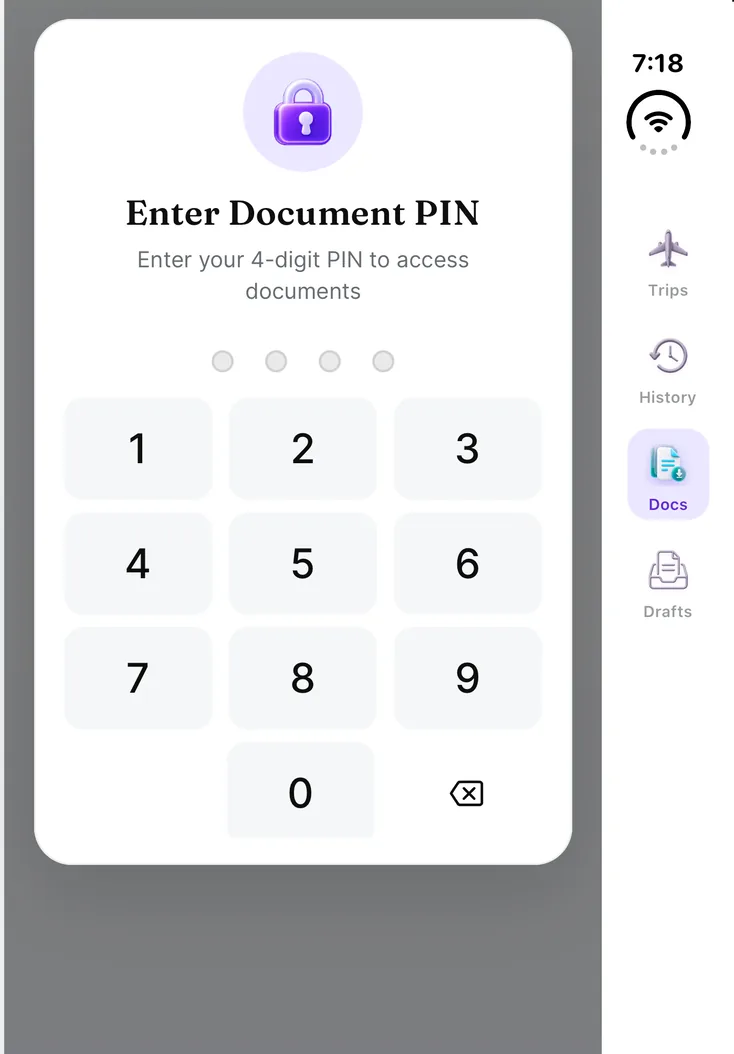
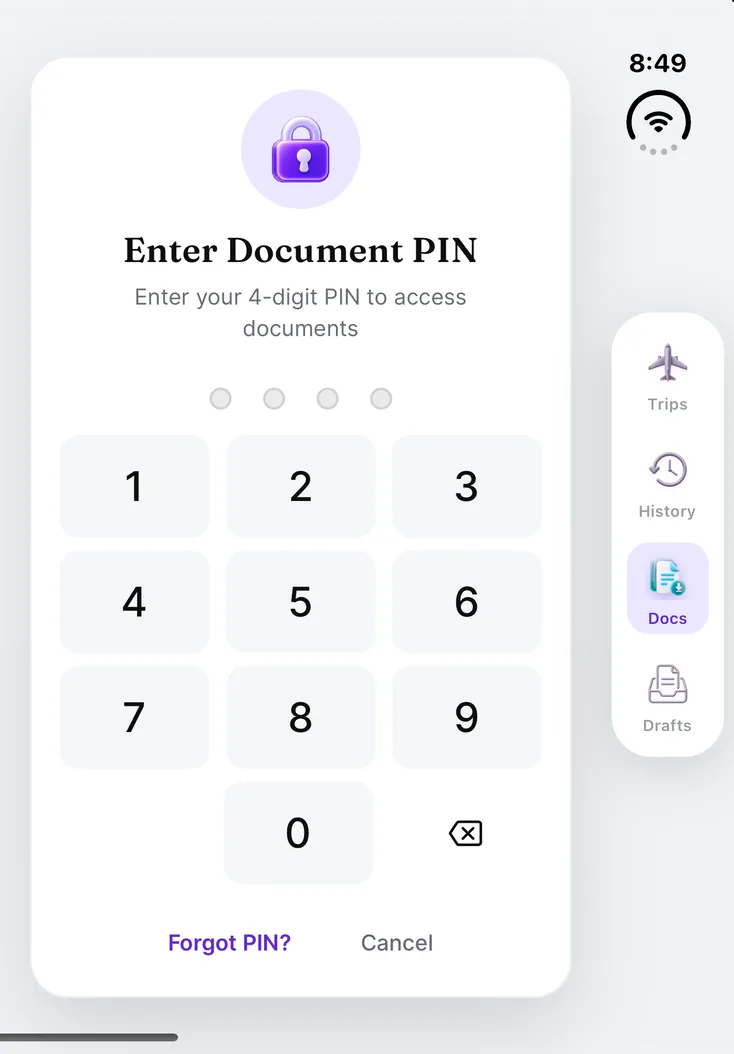
iPhone Duo section: frames from the current app build
Recaptured Trips (Melbourne selected on the map), Trip, Flight
(departures board) and Documents (PIN lock) on the iPhone Duo
simulator (iOS 27.1) running the latest dev build, inner display open
flat. The owner's name on the flight screen is replaced with a sample
traveller name. Captions and alt text describe the new screens.

diff --git a/components/home/duo.tsx b/components/home/duo.tsx
@@ -18,30 +18,30 @@ const SCREENS: Screen[] = [
   {
     id: "trips",
     label: "Trips",
-    closed: "Closed, your next flight and its countdown.",
-    open: "Open, the trip after it and every flight on it, beside the same screen.",
-    alt: "TripCache on iPhone Duo, open: the upcoming Trip to Adelaide and its flights on the left, the next flight to Melbourne on the right.",
+    closed: "Closed, your trips and the flight you’ve just taken.",
+    open: "Open, every upcoming trip on a map. Pick one and its next flight appears.",
+    alt: "TripCache on iPhone Duo, open: a map of Melbourne with the QF 9401 Sydney to Melbourne flight card on the left, the trips list on the right.",
   },
   {
     id: "trip",
     label: "Trip",
-    closed: "Closed, the itinerary for the trip.",
-    open: "Open, its overview, costs and map on the left page.",
-    alt: "TripCache on iPhone Duo, open: Melbourne trip overview with flights, stay, plan and booked costs on the left, the itinerary on the right.",
+    closed: "Closed, the trip’s day-by-day itinerary.",
+    open: "Open, the trip cover with flights, hotel, budget, map and documents beside it.",
+    alt: "TripCache on iPhone Duo, open: the Trip to Melbourne cover with 3 flights and 1 hotel on the left, the itinerary with flight QF 9401 and the hotel on the right.",
   },
   {
     id: "flight",
     label: "Flight",
-    closed: "Closed, the flight card you need at the gate: boarding time, seat and class.",
-    open: "Open, the route and timings for the whole journey.",
-    alt: "TripCache on iPhone Duo, open: Sydney to Melbourne route, seat and distance on the left, flight QF 9401 details on the right.",
+    closed: "Closed, the flight card you need at the gate: boarding time, seat, class and check-in.",
+    open: "Open, a departures board for your flight, with the countdown, seat and terminal.",
+    alt: "TripCache on iPhone Duo, open: a departures board for QF 9401 to Melbourne at 09:10, on time, on the left, the flight details and route map on the right.",
   },
   {
     id: "documents",
     label: "Documents",
     closed: "Closed, the PIN pad for your document vault.",
-    open: "Open, the vault stays locked until the PIN is entered on the right.",
-    alt: "TripCache on iPhone Duo, open: a locked document vault on the left and the document PIN pad on the right.",
+    open: "Open, your documents stay sealed until the PIN is entered, then open beside it.",
+    alt: "TripCache on iPhone Duo, open: 2 documents protected on the left and the document PIN pad on the right.",
   },
 ]
 
@@ -86,7 +86,7 @@ function DuoDevice({ screen, still, playing, onCycle }: { screen: Screen; still:
 const POINTS = [
   { title: "Nothing jumps", text: "The screen you were on stays exactly where it was as you open the phone. The next page appears beside it." },
   { title: "The cover screen at the gate", text: "Keep it closed for the flight card, the countdown and the check-in button, one-handed." },
-  { title: "The big screen for planning", text: "Open it for the trip overview, the route map, the budget and your drafts, side by side." },
+  { title: "The big screen for planning", text: "Open it for every trip on a map, a departures board for your flight, and the budget, side by side." },
 ]
 
 export function Duo() {
